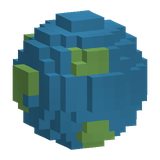
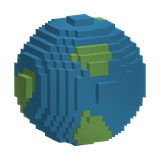
Reconcile expedition UI with native visual comparison

Changed region(s): [[0.0625, 0.0625, 0.9375, 0.9375], [0.75, 0.3438, 0.8125, 0.375]]

diff --git a/src/main/java/dev/astralreach/hytale/OrbitalMapPage.java b/src/main/java/dev/astralreach/hytale/OrbitalMapPage.java
@@ -32,11 +32,12 @@ final class OrbitalMapPage extends InteractiveCustomUIPage<OrbitalMapPage.Action
   "Vesper",new Body("Cloudlands","","Iridium","","Sulfur","Deep Space suit","Cryogenic Drive · future route"),
   "Umbra",new Body("Outer moon","","Aetherium","","Void quartz","Deep Space suit","Radiation Core · future route"));
  private static final String HUD="AstralReach.Map";
- private static final class Session{final Store<EntityStore> store;final PlayerRef player;final OrbitalScene scene;final byte originalSlot;boolean dragging,loggedMotion,dragMoved,threeD;String selected="Lune";double dragged;int pressTarget=-1,lastSlot;long watchAt;org.joml.Vector3i pressPlane;Session(Store<EntityStore>s,PlayerRef p){store=s;player=p;scene=new OrbitalScene(s,p);var bar=s.getComponent(p.getReference(),InventoryComponent.Hotbar.getComponentType());originalSlot=bar==null?s.getComponent(p.getReference(),Player.getComponentType()).getInventory().getActiveHotbarSlot():bar.getActiveSlot();lastSlot=originalSlot;}}
+ private static final class Session{final Store<EntityStore> store;final PlayerRef player;OrbitalScene scene;final byte originalSlot;boolean dragging,loggedMotion,dragMoved,threeD;String selected="Lune";double dragged;int pressTarget=-1,lastSlot;long watchAt;org.joml.Vector3i pressPlane;Session(Store<EntityStore>s,PlayerRef p){store=s;player=p;var bar=s.getComponent(p.getReference(),InventoryComponent.Hotbar.getComponentType());originalSlot=bar==null?s.getComponent(p.getReference(),Player.getComponentType()).getInventory().getActiveHotbarSlot():bar.getActiveSlot();lastSlot=originalSlot;}}
  private static final Map<UUID,Session> viewing=new java.util.concurrent.ConcurrentHashMap<>();
  private final Session session;private String selected;private boolean sceneHandoff;private long refreshAt;
  OrbitalMapPage(Session session,String selected){super(session.player,CustomPageLifetime.CanDismiss,Action.CODEC);this.session=session;this.selected=selected;}
  static boolean viewing(UUID id){return viewing.containsKey(id);}
+ static boolean threeD(UUID id){var session=viewing.get(id);return session!=null&&session.threeD;}
  static void open(Store<EntityStore>s,Ref<EntityStore>r,PlayerRef p){
   if(!SpaceFlight.inOrbit(s,r)){AstralReachPlugin.message(p,"Navigation becomes available after reaching space.");return;}
   var player=s.getComponent(r,Player.getComponentType());if(player==null)return;var session=viewing.get(p.getUuid());
@@ -45,19 +46,19 @@ final class OrbitalMapPage extends InteractiveCustomUIPage<OrbitalMapPage.Action
  private static void showDestinations(Session session,String body){
   var r=session.player.getReference();if(r==null||!r.isValid()||r.getStore()!=session.store||!SpaceFlight.inOrbit(session.store,r))return;
   session.threeD=false;session.selected=body;var player=session.store.getComponent(r,Player.getComponentType());player.getHudManager().removeCustomHud(session.player,HUD);
-  session.scene.select(body);session.scene.view();player.getPageManager().openCustomPage(r,session.store,new OrbitalMapPage(session,body));
+  if(session.scene!=null){session.scene.close();session.scene=null;}player.getPageManager().openCustomPage(r,session.store,new OrbitalMapPage(session,body));
  }
  private static void showScene(Session session){
-  var r=session.player.getReference();if(r==null||!r.isValid()||r.getStore()!=session.store)return;session.threeD=true;session.dragging=false;
+  var r=session.player.getReference();if(r==null||!r.isValid()||r.getStore()!=session.store)return;session.threeD=true;session.dragging=false;if(session.scene==null)session.scene=new OrbitalScene(session.store,session.player);session.scene.select(session.selected);
   session.store.getComponent(r,Player.getComponentType()).getHudManager().addCustomHud(session.player,new CustomUIHud(session.player,HUD,7){@Override protected void build(UICommandBuilder c){c.append("Pages/AstralReach/OrbitalMapHud.ui");}});session.scene.view();
  }
  static void route(Store<EntityStore>s,Ref<EntityStore>r,PlayerRef p,String name){String body=ORDER.stream().filter(v->v.equalsIgnoreCase(name)).findFirst().orElse(null);if(body==null){AstralReachPlugin.message(p,"Choose Orbis, Lune, Rustreach, Nacre, Vesper or Umbra.");return;}if(!SpaceFlight.inOrbit(s,r)){AstralReachPlugin.message(p,"Navigation becomes available after reaching space.");return;}var session=viewing.get(p.getUuid());if(session==null){session=new Session(s,p);viewing.put(p.getUuid(),session);}showDestinations(session,body);}
- private static void stop(Session session){if(!viewing.remove(session.player.getUuid(),session))return;var world=session.store.getExternalData().getWorld();if(world.isInThread())session.scene.close();else world.execute(session.scene::close);var r=session.player.getReference();if(r!=null&&r.isValid()){var current=r.getStore();Runnable remove=()->{if(!r.isValid()||r.getStore()!=current)return;var player=current.getComponent(r,Player.getComponentType());if(player!=null){player.getHudManager().removeCustomHud(session.player,HUD);var bar=current.getComponent(r,InventoryComponent.Hotbar.getComponentType());if(bar!=null&&session.originalSlot>=0&&session.originalSlot<bar.getInventory().getCapacity()&&bar.getActiveSlot()!=session.originalSlot){bar.setActiveSlot(session.originalSlot,r,current);session.player.getPacketHandler().writeNoCache(new com.hypixel.hytale.protocol.packets.inventory.SetActiveSlot(bar.getSectionId(),session.originalSlot));}}};if(current.getExternalData().getWorld().isInThread())remove.run();else current.getExternalData().getWorld().execute(remove);}}
+ private static void stop(Session session){if(!viewing.remove(session.player.getUuid(),session))return;var world=session.store.getExternalData().getWorld();var scene=session.scene;session.scene=null;if(scene!=null){if(world.isInThread())scene.close();else world.execute(scene::close);}var r=session.player.getReference();if(r!=null&&r.isValid()){var current=r.getStore();Runnable remove=()->{if(!r.isValid()||r.getStore()!=current)return;var player=current.getComponent(r,Player.getComponentType());if(player!=null){player.getHudManager().removeCustomHud(session.player,HUD);var bar=current.getComponent(r,InventoryComponent.Hotbar.getComponentType());if(bar!=null&&session.originalSlot>=0&&session.originalSlot<bar.getInventory().getCapacity()&&bar.getActiveSlot()!=session.originalSlot){bar.setActiveSlot(session.originalSlot,r,current);session.player.getPacketHandler().writeNoCache(new com.hypixel.hytale.protocol.packets.inventory.SetActiveSlot(bar.getSectionId(),session.originalSlot));}}};if(current.getExternalData().getWorld().isInThread())remove.run();else current.getExternalData().getWorld().execute(remove);}}
  static void close(PlayerRef p){var session=viewing.get(p.getUuid());if(session!=null)stop(session);}
  static void cleanup(Store<EntityStore>s){for(var session:new ArrayList<>(viewing.values()))if(session.store==s){var r=session.player.getReference();if(r==null||!r.isValid()||r.getStore()!=s||!SpaceFlight.inOrbit(s,r)){stop(session);continue;}long now=System.nanoTime();if(now-session.watchAt<75_000_000L||active(r)==null)continue;session.watchAt=now;var player=s.getComponent(r,Player.getComponentType());if(player!=null){var inv=player.getInventory();observeSlot(session,inv.getActiveHotbarSlot(),inv.getHotbar().getCapacity());}}}
  private static void observeSlot(Session session,int next,int count){int previous=session.lastSlot;session.lastSlot=next;if(next==previous||next<0||next>=count||previous<0||previous>=count)return;int delta=Math.floorMod(next-previous+count/2,count)-count/2;if(Math.abs(delta)==1){session.scene.zoom=Math.clamp(session.scene.zoom+delta*7,32,130);session.scene.view();System.out.println("AR_MAP_SCROLL step="+delta);}}
 
- private static Session active(Ref<EntityStore>r){if(r==null||!r.isValid())return null;var s=r.getStore();var p=s.getComponent(r,PlayerRef.getComponentType());if(p==null)return null;var session=viewing.get(p.getUuid());if(session==null||session.store!=s||!SpaceFlight.inOrbit(s,r))return null;var player=s.getComponent(r,Player.getComponentType());return session.threeD&&player!=null&&player.getPageManager().getCustomPage()==null?session:null;}
+ private static Session active(Ref<EntityStore>r){if(r==null||!r.isValid())return null;var s=r.getStore();var p=s.getComponent(r,PlayerRef.getComponentType());if(p==null)return null;var session=viewing.get(p.getUuid());if(session==null||session.store!=s||!SpaceFlight.inOrbit(s,r))return null;var player=s.getComponent(r,Player.getComponentType());return session.threeD&&session.scene!=null&&player!=null&&player.getPageManager().getCustomPage()==null?session:null;}
  static void button(PlayerMouseButtonEvent e){var r=e.getPlayerRef();var session=active(r);if(session==null)return;e.setCancelled(true);var button=e.getMouseButton();if(button==null)return;System.out.println("AR_MAP_BUTTON "+button.mouseButtonType+" "+button.state+" screen="+e.getScreenPoint()+" plane="+e.getTargetBlock());boolean pressed=button.state==MouseButtonState.Pressed;
   if(pressed&&button.mouseButtonType==MouseButtonType.Right){showDestinations(session,session.selected);return;}if(pressed&&button.mouseButtonType==MouseButtonType.Middle){session.scene.reset();return;}if(button.mouseButtonType!=MouseButtonType.Left)return;
   int target=-1;var hit=e.getTargetEntityRef();if(hit!=null&&hit.isValid()){var id=session.store.getComponent(hit,NetworkId.getComponentType());if(id!=null)target=id.getId();}
@@ -87,7 +88,7 @@ final class OrbitalMapPage extends InteractiveCustomUIPage<OrbitalMapPage.Action
   c.set("#SuitIcon.ItemId",required==1?"AR_Survey_Chest":required==2?"AR_Thermal_Chest":"AR_DeepSpace_Chest");c.set("#Suit.Text",(tier>=required?"":"Requires ")+body.equipment);c.set("#SuitCheck.Visible",tier>=required);c.set("#OxygenCheck.Visible",oxygen>0);c.set("#Oxygen.Text",oxygen>0?"Oxygen · "+NativeUi.duration(oxygen):"Carry filled oxygen canisters");
   int reserve=f!=null&&f.trip!=null?f.trip.returnUnits():0;c.set("#Reserve.Text",NativeUi.number(reserve)+" units protected");c.set("#Flight.Text","In orbit · "+(f==null?"Vehicle":f.plan.title));
   boolean available=dev.astralreach.core.DestinationAccess.canTravel(selected,f!=null&&f.trip!=null&&reserve>0,tier);c.set("#Travel.Text",selected.equals("Orbis")?"Return to Orbis":selected.equals("Lune")?"Land on Lune":"Route unavailable");c.set("#Travel.Disabled",!available);
-  for(String name:ORDER){boolean active=name.equals(selected);c.set("#Chosen"+name+".Visible",active);c.set("#Ring"+name+".Visible",active);c.set("#Preview"+name+".Visible",active);}
+  for(String name:ORDER){boolean active=name.equals(selected);c.set("#Chosen"+name+".Visible",active);c.set("#Ring"+name+".Visible",active);c.set("#Preview"+name+".Visible",active);c.set("#Mini"+name+".Visible",active);}
  }
  @Override public void build(Ref<EntityStore>r,UICommandBuilder c,UIEventBuilder e,Store<EntityStore>s){
   c.append("Pages/AstralReach/OrbitalMap.ui");labels(r,c,s);NativeUi.cue(s,playerRef);
@@ -97,7 +98,7 @@ final class OrbitalMapPage extends InteractiveCustomUIPage<OrbitalMapPage.Action
  @Override public void handleDataEvent(Ref<EntityStore>r,Store<EntityStore>s,Action action){s.getExternalData().getWorld().execute(()->{
   if(!r.isValid()||r.getStore()!=s||viewing.get(playerRef.getUuid())!=session||!SpaceFlight.inOrbit(s,r))return;var player=s.getComponent(r,Player.getComponentType());if(player==null||player.getPageManager().getCustomPage()!=this)return;
   String a=action.action;if(a.equals("Close")){stop(session);close();return;}
-  if(a.startsWith("Select:")){String body=a.substring(7);if(!BODIES.containsKey(body)||body.equals(selected))return;selected=body;session.selected=body;session.scene.select(body);NativeUi.cue(s,playerRef);var c=new UICommandBuilder();labels(r,c,s);sendUpdate(c,false);return;}
+  if(a.startsWith("Select:")){String body=a.substring(7);if(!BODIES.containsKey(body)||body.equals(selected))return;selected=body;session.selected=body;if(session.scene!=null)session.scene.select(body);NativeUi.cue(s,playerRef);var c=new UICommandBuilder();labels(r,c,s);sendUpdate(c,false);return;}
   if(a.equals("Explore")){NativeUi.cue(s,playerRef);sceneHandoff=true;close();showScene(session);return;}
   if(!a.equals("Travel")||!selected.equals("Lune")&&!selected.equals("Orbis"))return;
   try{if(selected.equals("Lune"))ExpeditionSuit.require(s,r,1);}catch(IllegalArgumentException ex){AstralReachPlugin.message(playerRef,ex.getMessage());return;}

diff --git a/tools/native_ui_art.py b/tools/native_ui_art.py
@@ -1,34 +1,67 @@
+#!/usr/bin/env python3
+"""Original source-authored native UI decoration; real controls remain native widgets."""
 from pathlib import Path
 import math,random
 from PIL import Image,ImageDraw
-R=Path(__file__).resolve().parents[1]/'src/main/resources/Common/UI/Custom/Pages/AstralReach/Art';R.mkdir(exist_ok=True)
-# Original source-rendered low-poly globes; no generated mock-up is pasted over native controls.
+R=Path(__file__).resolve().parents[1]/'src/main/resources/Common/UI/Custom/Pages/AstralReach/Art';R.mkdir(parents=True,exist_ok=True)
 PALETTES={'Sol':((238,182,65),(255,231,132)),'Orbis':((49,119,158),(107,154,79)),'Lune':((141,146,154),(101,107,119)),'Rustreach':((156,84,48),(100,54,39)),'Nacre':((125,192,209),(190,228,231)),'Vesper':((192,157,69),(143,111,48)),'Umbra':((112,87,149),(155,133,183))}
+# Finer broad voxel relief; the same bounding circle and original family palette.
 for name,(a,b) in PALETTES.items():
- size=160;scale=3;im=Image.new('RGBA',(size*scale,size*scale));d=ImageDraw.Draw(im);faces=[];radius=5.2
- voxels={(x,y,z) for x in range(-5,6) for y in range(-5,6) for z in range(-5,6) if x*x+y*y+z*z<radius*radius}
+ size=160;scale=3;im=Image.new('RGBA',(size*scale,size*scale));d=ImageDraw.Draw(im);faces=[];radius=9.2;unit=6.8
+ voxels={(x,y,z) for x in range(-9,10) for y in range(-9,10) for z in range(-9,10) if x*x+y*y+z*z<radius*radius}
+ if name=='Lune':
+  craters=[(-2,2,8.4,2.3),(3,-2,8.1,2.5),(-6,3,5.6,1.9),(0,8,3.5,1.7)]
+  voxels={p for p in voxels if not any(sum((p[i]-c[i])**2 for i in range(3))<c[3]**2 for c in craters)}
  yaw=.45;pitch=.23
  def project(p):
   x,y,z=p;xx=x*math.cos(yaw)+z*math.sin(yaw);zz=-x*math.sin(yaw)+z*math.cos(yaw);yy=y*math.cos(pitch)-zz*math.sin(pitch);depth=y*math.sin(pitch)+zz*math.cos(pitch)
-  return ((size/2+xx*12)*scale,(size/2-yy*12)*scale,depth)
+  return ((size/2+xx*unit)*scale,(size/2-yy*unit)*scale,depth)
  data=[((-1,0,0),[(-.5,-.5,-.5),(-.5,.5,-.5),(-.5,.5,.5),(-.5,-.5,.5)],.68),((0,1,0),[(-.5,.5,-.5),(.5,.5,-.5),(.5,.5,.5),(-.5,.5,.5)],1.09),((0,0,1),[(-.5,-.5,.5),(.5,-.5,.5),(.5,.5,.5),(-.5,.5,.5)],.91)]
  for x,y,z in voxels:
   for (dx,dy,dz),corners,shade in data:
    if (x+dx,y+dy,z+dz) in voxels:continue
-   p=[project((x+cx,y+cy,z+cz)) for cx,cy,cz in corners];f=math.sin(x*.85+z*.53)+math.cos(y*.9-z*.71)+.4*math.sin(x+y)
-   color=b if f>.9 else a
-   # Broad material planes and slight painted tonal variation, not a noisy checker texture.
-   factor=shade*(.94+.055*math.sin(x*.5+y*.3+z*.6));color=tuple(min(255,max(0,int(c*factor))) for c in color)+(255,)
+   p=[project((x+cx,y+cy,z+cz)) for cx,cy,cz in corners];sx,sy,sz=x/1.77,y/1.77,z/1.77;f=math.sin(sx*.85+sz*.53)+math.cos(sy*.9-sz*.71)+.4*math.sin(sx+sy)
+   color=b if f>.9 else a;factor=shade*(.94+.055*math.sin(sx*.5+sy*.3+sz*.6));color=tuple(min(255,max(0,int(c*factor))) for c in color)+(255,)
    faces.append((sum(q[2] for q in p)/4,[(q[0],q[1]) for q in p],color))
  for _,p,c in sorted(faces,key=lambda q:q[0]):d.polygon(p,fill=c)
  im.resize((size,size),Image.Resampling.LANCZOS).save(R/f'Planet_{name}.png')
-im=Image.new('RGBA',(64,64));d=ImageDraw.Draw(im);d.rectangle((1,1,62,62),outline='#78d0c7',width=2);d.line((5,6,58,6),fill='#335f70',width=2);im.save(R/'SelectedFrame.png')
-im=Image.new('RGBA',(128,128));d=ImageDraw.Draw(im);d.ellipse((3,3,124,124),outline='#78d0c7',width=3);im.save(R/'SelectionRing.png')
-im=Image.new('RGB',(640,544),'#07131e');d=ImageDraw.Draw(im);rng=random.Random(84211)
-for _ in range(70):
- x,y=rng.randrange(640),rng.randrange(544);d.point((x,y),fill=rng.choice(['#233647','#314757','#1c3142']))
-for rx,ry in [(180,135),(280,220),(390,305),(500,390)]:d.ellipse((60-rx,300-ry,60+rx,300+ry),outline='#263d4e',width=1)
-sun=Image.open(R/'Planet_Sol.png').resize((190,190));im.paste(sun,(-95,200),sun);im.save(R/'SystemChart.png')
-print('Rendered original source-authored UI globe/selection/chart art.')
 
-im=Image.new('RGBA',(48,48));d=ImageDraw.Draw(im);d.line((7,24,19,36,41,10),fill='#78d0c7',width=6);im.save(R/'Ready.png')
+def panel(name,top,bottom,edge='#476780',cut=4):
+ w,h=96,64;im=Image.new('RGBA',(w,h));d=ImageDraw.Draw(im);t=tuple(bytes.fromhex(top[1:]));b=tuple(bytes.fromhex(bottom[1:]));poly=[(cut,0),(w-cut-1,0),(w-1,cut),(w-1,h-cut-1),(w-cut-1,h-1),(cut,h-1),(0,h-cut-1),(0,cut)]
+ for y in range(h):
+  c=tuple(round(t[i]+(b[i]-t[i])*y/(h-1)) for i in range(3));d.line((0,y,w,y),fill=c)
+ mask=Image.new('L',(w,h));ImageDraw.Draw(mask).polygon(poly,fill=255);im.putalpha(mask);d=ImageDraw.Draw(im);d.line(poly+[poly[0]],fill='#080f18',width=2);d.line([(cut+1,2),(w-cut-2,2),(w-3,cut+1)],fill=edge,width=2);d.line([(2,cut+1),(2,h-cut-2)],fill=edge,width=1);d.line([(cut+2,h-4),(w-cut-3,h-4),(w-4,h-cut-3)],fill='#07101a',width=2);im.save(R/name)
+for args in [('WindowPatch.png','#183049','#0b1723','#6686a0'),('PanelPatch.png','#101f2e','#0b1721','#385d79'),('TitleHeader.png','#244d76','#122a46','#6687a9'),('SectionHeader.png','#1c405c','#10273c','#4d7694'),('Row.png','#122432','#0a1722','#355773'),('RowHovered.png','#1b3d4b','#102936','#7bc4cb'),('RowPressed.png','#10232d','#0b1b24','#5fadb8'),('ControlPrimary.png','#0868da','#0340a4','#56a7ff'),('ControlPrimary_Hovered.png','#1685f2','#0754b9','#93cdff'),('ControlPrimary_Pressed.png','#104f99','#05336d','#3881c2'),('ControlSecondary.png','#354a64','#202e43','#6c88a5'),('ControlSecondary_Hovered.png','#456079','#2d435c','#9db7ce'),('ControlSecondary_Pressed.png','#25364b','#172738','#4b7895'),('ControlDisabled.png','#2b3743','#202b36','#475869')]:panel(*args)
+im=Image.new('RGBA',(64,64),(32,107,122,30));d=ImageDraw.Draw(im);d.rectangle((1,1,62,62),outline='#62e5dd',width=3);d.line((5,6,58,6),fill='#3e8e9a',width=2);im.save(R/'SelectedFrame.png')
+im=Image.new('RGBA',(128,128));d=ImageDraw.Draw(im);d.ellipse((3,3,124,124),outline='#78e4da',width=3);im.save(R/'SelectionRing.png')
+im=Image.new('RGBA',(48,48));d=ImageDraw.Draw(im);d.rectangle((2,2,45,45),outline='#5de2db',width=3);d.line((10,24,20,34,39,12),fill='#69e8de',width=5);im.save(R/'Ready.png')
+im=Image.new('RGBA',(48,48));d=ImageDraw.Draw(im);d.arc((12,3,36,31),180,360,fill='#8ca5ba',width=5);d.rectangle((8,20,40,43),fill='#7b92aa');d.ellipse((21,27,27,33),fill='#15293c');d.rectangle((23,31,25,37),fill='#15293c');im.save(R/'Lock.png')
+for name,kind in [('Compass.png','compass'),('RocketGlyph.png','rocket'),('OrbitGlyph.png','orbit'),('CloseGlyph.png','close'),('CanisterGlyph.png','canister')]:
+ im=Image.new('RGBA',(64,64));d=ImageDraw.Draw(im);color='#bdd8ef'
+ if kind=='compass':
+  d.ellipse((22,22,42,42),outline=color,width=3)
+  for poly in [[(32,1),(23,25),(32,20),(41,25)],[(32,63),(23,39),(32,44),(41,39)],[(1,32),(25,23),(20,32),(25,41)],[(63,32),(39,23),(44,32),(39,41)]]:d.polygon(poly,fill=color)
+ elif kind=='rocket':
+  d.polygon([(32,4),(22,20),(22,46),(42,46),(42,20)],fill=color);d.ellipse((27,20,37,30),fill='#17324b');d.polygon([(22,34),(14,46),(14,54),(24,48)],fill=color);d.polygon([(42,34),(50,46),(50,54),(40,48)],fill=color);d.polygon([(26,51),(32,63),(38,51)],fill=color)
+ elif kind=='canister':
+  d.rectangle((22,7,42,12),fill=color);d.rectangle((18,15,46,55),outline=color,width=4);d.rectangle((23,25,41,40),fill='#63dfda')
+ elif kind=='orbit':d.ellipse((14,14,50,50),outline=color,width=3);d.ellipse((3,23,61,41),outline=color,width=3)
+ else:d.line((13,13,51,51),fill=color,width=8);d.line((51,13,13,51),fill=color,width=8)
+ im.save(R/name)
+# Native ProgressBar handles the actual server Value; these are decorative textures only.
+for name,top,bottom in [('MeterFill.png',(96,232,225),(27,158,195)),('MeterTrack.png',(20,35,47),(9,21,32))]:
+ im=Image.new('RGBA',(256,16));d=ImageDraw.Draw(im)
+ for y in range(16):d.line((0,y,255,y),fill=tuple(round(top[i]+(bottom[i]-top[i])*y/15) for i in range(3)))
+ d.rectangle((0,0,255,15),outline='#4b7890',width=1);im.save(R/name)
+im=Image.new('RGB',(640,544),'#07131e');d=ImageDraw.Draw(im);rng=random.Random(84211)
+for _ in range(100):
+ x,y=rng.randrange(640),rng.randrange(544);d.point((x,y),fill=rng.choice(['#233647','#405569','#1c3142']))
+for rx,ry in [(180,135),(280,220),(390,305),(500,390)]:d.ellipse((60-rx,300-ry,60+rx,300+ry),outline='#314c61',width=1)
+# A sparse original belt of painted fragments follows the system chart's inner orbital arc.
+for i in range(30):
+ t=-1.3+i*.087;x=60+217*math.cos(t);y=300+168*math.sin(t);size=rng.choice([2,3,4]);d.polygon([(x-size,y),(x,y-size),(x+size,y),(x,y+size)],fill=rng.choice(['#626267','#797a7c','#4c505a']))
+sun=Image.open(R/'Planet_Sol.png').resize((280,280));im.paste(sun,(-140,155),sun);im.save(R/'SystemChart.png')
+print('Rendered original voxel relief, native nine-slice frames, glyphs and teal meter art; loaded comparison pending.')
+im=Image.new('RGB',(640,400),'#091622');d=ImageDraw.Draw(im);rng=random.Random(9440)
+for _ in range(90):d.point((rng.randrange(640),rng.randrange(400)),fill=rng.choice(['#264258','#344c62','#1b3447']))
+im.save(R/'StarField.png')

diff --git a/tools/native_ui_layouts.py b/tools/native_ui_layouts.py
@@ -207,3 +207,50 @@ for p in r.glob('*.ui'):
  if p.name not in ['Astral.ui','YardSlot.ui','YardRow.ui']:
   s=p.read_text().replace('$C.@TextButton','$A.@Primary').replace('$C.@SecondaryTextButton','$A.@Secondary')
   p.write_text(s)
+
+# Reconcile the observed UI1r2 render with the exact selected working concepts.
+# Every replacement starts from the generator above, so reruns are idempotent.
+p=r/'Astral.ui';s=p.read_text()
+s=s.replace('@Text = (FontSize: 20','@Text = (FontSize: 24').replace('@Muted = (FontSize: 18','@Muted = (FontSize: 22').replace('@Heading = (FontSize: 21','@Heading = (FontName: "Secondary", FontSize: 24')
+s=s.replace('(TexturePath: "../../Common/ContainerFullPatch.png", Border: 20)','(TexturePath: "Art/WindowPatch.png", Border: 12)').replace('(TexturePath: "../../Common/ContainerPatch.png", Border: 23)','(TexturePath: "Art/PanelPatch.png", Border: 8)')
+s=s.replace('(TexturePath: "../../Common/ContainerHeaderNoRunes.png", HorizontalBorder: 35, VerticalBorder: 0)','(TexturePath: "Art/SectionHeader.png", Border: 8)')
+s=s.replace('@Header = Group { Background: (TexturePath: "Art/SectionHeader.png", Border: 8)','@Header = Group { Background: (TexturePath: "Art/TitleHeader.png", Border: 8)')
+for old,new in [('Tertiary','Row'),('Tertiary_Hovered','RowHovered'),('Tertiary_Pressed','RowPressed'),('Secondary','ControlSecondary'),('Secondary_Hovered','ControlSecondary_Hovered'),('Secondary_Pressed','ControlSecondary_Pressed')]:s=s.replace(f'(TexturePath: "../../Common/Buttons/{old}.png", Border: 12)',f'(TexturePath: "Art/{new}.png", Border: 8)')
+s=s.replace('@ButtonLabel = (...$C.@DefaultButtonLabelStyle, FontSize: 20);','@ButtonLabel = (...$C.@DefaultButtonLabelStyle, FontName: "Secondary", FontSize: 24, RenderUppercase: false, MinShrinkTextToFitFontSize: 18);')
+for old,new in [('Default','ControlPrimary'),('Hovered','ControlPrimary_Hovered'),('Pressed','ControlPrimary_Pressed'),('Disabled','ControlDisabled')]:s=s.replace('$C.@DefaultButton'+old+'Background',f'(TexturePath: "Art/{new}.png", Border: 8)')
+s+='\n@Progress = ProgressBar { Background: "Art/MeterTrack.png"; BarTexturePath: "Art/MeterFill.png"; };\n';p.write_text(s)
+for name in ['OrbitalMap.ui','LaunchYard.ui','Rocket.ui','Oxygen.ui','OxygenHud.ui','Ascent.ui','OrbitalMapHud.ui']:
+ p=r/name;s=p.read_text().replace('$C.@ProgressBar','$A.@Progress').replace('(TexturePath: "../../Common/Buttons/Tertiary.png", Border: 12)','(TexturePath: "Art/Row.png", Border: 8)')
+ if name=='OrbitalMap.ui':
+  s=s.replace('$C.@SecondaryTextButton','$A.@Secondary').replace('$C.@TextButton','$A.@Primary')
+  s=s.replace('FontSize: 36','FontName: "Secondary", FontSize: 38')
+  s=s.replace('Label { Text: "DESTINATIONS";','Group { Anchor: (Left: 8, Width: 42, Height: 42); Background: "Art/Compass.png"; HitTestVisible: false; } Label { Anchor: (Left: 88, Right: 250); Text: "DESTINATIONS";')
+  s=s.replace('Height: 260','Height: 258').replace('Height: 118','Height: 128').replace('Height: 146','Height: 156')
+  s=s.replace('Group { Anchor: (Height: 12); }','Group { Anchor: (Height: 6); }')
+  s=s.replace('Width: 170, Height: 170','Width: 190, Height: 190')
+  mini=''.join(f'Group #Mini{n} {{ Anchor: (Left: 0, Top: 8, Width: 28, Height: 28); Background: "Art/Planet_{n}.png"; HitTestVisible: false; }} ' for n in planets)
+  s=s.replace('Label #Selected { Text: "LUNE";',mini+'Label #Selected { Anchor: (Left: 40, Right: 0); Text: "LUNE";')
+  s=s.replace('Group #PreviewOrbis','Group { Anchor: (Left: 8, Right: 8, Top: 48, Bottom: 8); Background: "Art/StarField.png"; HitTestVisible: false; }\nGroup #PreviewOrbis')
+  s=s.replace('Top: 54, Height: 52','Top: 54, Height: 64').replace('Left: 4, Top: 2, Width: 48, Height: 48','Left: 4, Top: 4, Width: 56, Height: 56').replace('Left: 58, Right: 4, Top: 2, Height: 48','Left: 66, Right: 4, Top: 2, Height: 60').replace('FontSize: 18, TextColor: #d4e0e7','FontSize: 22, TextColor: #d4e0e7')
+  s=s.replace('Top: 50, Height: 42','Top: 50, Height: 48').replace('Top: 96, Height: 42','Top: 104, Height: 48').replace('Left: 4, Width: 42, Height: 42','Left: 4, Width: 46, Height: 46').replace('Left: 58, Right: 40, Top: 2, Height: 38','Left: 62, Right: 44, Top: 2, Height: 44').replace('FontSize: 19, TextColor: #cbd9e1','FontSize: 22, TextColor: #cbd9e1')
+  s=s.replace('Right: 10, Top: 9, Width: 24, Height: 24','Right: 9, Top: 9, Width: 30, Height: 30').replace('#e4c37b','#ffd46e')
+  for n in ['Rustreach','Nacre','Vesper','Umbra']:
+   start=s.index('Button #Route'+n);end=s.index('Group { Anchor: (Height: 9); }',start);row=s[start:end];row=row.replace('Right: 8, Height: 28','Right: 42, Height: 28').replace('Right: 8, Height: 26','Right: 42, Height: 26');row=row.rstrip();row=row[:-1]+f' Group {{ Anchor: (Right: 14, Top: 30, Width: 24, Height: 30); Background: "Art/Lock.png"; HitTestVisible: false; }} }} ';s=s[:start]+row+s[end:]
+ elif name=='Oxygen.ui':
+  s=s.replace('Width: 900, Height: 760','Width: 900, Height: 720').replace('Anchor: (Height: 220)','Anchor: (Height: 252)').replace('Left: 36, Right: 36, Top: 64, Bottom: 16','Width: 692, Top: 64, Bottom: 16').replace('Anchor: (Width: 180);','Anchor: (Width: 140);').replace('Anchor: (Height: 96);','Anchor: (Height: 124);').replace('Width: 84, Height: 84','Width: 104, Height: 104').replace('Height: 10, Left: 8','Height: 12, Left: 8').replace('FontSize: 21, TextColor: #b7dae3','FontSize: 24, TextColor: #b7dae3').replace('FontSize: 22, TextColor: #bddbe1','FontSize: 25, TextColor: #bddbe1')
+  # Three true gutters; no invisible fourth gutter shifts the last canister.
+  needle='Group { Anchor: (Width: 14); }';positions=[];pos=0
+  while (pos:=s.find(needle,pos))>=0:positions.append(pos);pos+=len(needle)
+  for i,pos in reversed(list(enumerate(positions))):s=s[:pos]+('Group { Anchor: (Width: 44); }' if i<3 else '')+s[pos+len(needle):]
+ if name in ['LaunchYard.ui','Rocket.ui','Oxygen.ui']:
+  s=s.replace('FontSize: 29','FontName: "Secondary", FontSize: 34').replace('FontSize: 27','FontName: "Secondary", FontSize: 34')
+  for title in ['LAUNCH PLATFORM','OXYGEN DIFFUSER']:
+   s=s.replace('Label { Text: "'+title+'";','Group { Anchor: (Left: 0, Width: 34, Height: 42); Background: "Art/RocketGlyph.png"; HitTestVisible: false; } Label { Anchor: (Left: 50, Right: 0); Text: "'+title+'";')
+  if name=='Rocket.ui':s=s.replace('Label #RocketTitle {','Group { Anchor: (Left: 0, Width: 34, Height: 42); Background: "Art/RocketGlyph.png"; HitTestVisible: false; } Label #RocketTitle { Anchor: (Left: 50, Right: 0);').replace('Label { Text: "ROUND TRIP FUEL";','Label #FuelHeading { Text: "ROUND TRIP FUEL";')
+ if name=='OxygenHud.ui':s=s.replace('FontSize: 17,','FontName: "Secondary", FontSize: 20,').replace('FontSize: 23,','FontSize: 25,')
+ p.write_text(s)
+
+p=r/'Oxygen.ui';s=p.read_text().replace('Art/RocketGlyph.png','Art/CanisterGlyph.png');p.write_text(s)
+# Keep generated sources stable and clean after conditional gutters.
+for name in ['Astral.ui','OrbitalMap.ui','LaunchYard.ui','Rocket.ui','Oxygen.ui','OxygenHud.ui','Ascent.ui','OrbitalMapHud.ui']:
+ p=r/name;p.write_text('\n'.join(line.rstrip() for line in p.read_text().splitlines())+'\n')

diff --git a/src/main/java/dev/astralreach/hytale/SpaceFlight.java b/src/main/java/dev/astralreach/hytale/SpaceFlight.java
@@ -87,10 +87,10 @@ final class SpaceFlight {
    var r=p.getReference();if(r==null||!r.isValid()||!inOrbit(s,r))continue;var state=s.getComponent(r,AstralReachPlugin.flightType);var v=views.get(p.getUuid());
    if(v==null){v=new View();var player=s.getComponent(r,Player.getComponentType());if(player!=null){v.hud=Set.copyOf(player.getHudManager().getVisibleHudComponents());player.getHudManager().setVisibleHudComponents(p,Set.of(HudComponent.Chat));}views.put(p.getUuid(),v);}
    var uiPlayer=s.getComponent(r,Player.getComponentType());if(uiPlayer!=null&&uiPlayer.getPageManager().getCustomPage() instanceof OrbitalMapPage nav)nav.refresh(r,s);
-   if(OrbitalMapPage.viewing(p.getUuid())){if(v.vehicle!=null&&v.vehicle.isValid())s.removeEntity(v.vehicle,RemoveReason.REMOVE);v.vehicle=null;}
+   if(OrbitalMapPage.threeD(p.getUuid())){if(v.vehicle!=null&&v.vehicle.isValid())s.removeEntity(v.vehicle,RemoveReason.REMOVE);v.vehicle=null;}
    else if(v.vehicle==null||!v.vehicle.isValid()){String model=state.plan==LaunchPlan.KESTREL?"AR_KestrelShipIdle":"AR_OdysseyShipIdle";v.vehicle=RocketVisuals.spawn(s,model,new Vector3d(slot(p)+.5,202,.5),new Rotation3f());}
    state.boarded=true;CrewBoarding.hold(s,r,p,new Vector3d(slot(p)+.5,202+FlightTimeline.crewHeight(state.plan),.5));
-   long now=System.nanoTime();if(!OrbitalMapPage.viewing(p.getUuid())&&now-v.cameraAt>=100_000_000L){v.cameraAt=now;double h=FlightTimeline.upperHeight(state.plan);var target=new Vector3d(slot(p)+.5,202+h*.5,.5);camera(p,new Vector3d(target.x-55,target.y-110,target.z-120),target);}
+   long now=System.nanoTime();if(!OrbitalMapPage.threeD(p.getUuid())&&now-v.cameraAt>=100_000_000L){v.cameraAt=now;double h=FlightTimeline.upperHeight(state.plan);var target=new Vector3d(slot(p)+.5,202+h*.5,.5);camera(p,new Vector3d(target.x-55,target.y-110,target.z-120),target);}
    if(!v.mapShown&&now-v.arrival>=8_000_000_000L){v.mapShown=true;OrbitalMapPage.open(s,r,p);}
   }
   for(var id:new ArrayList<>(views.keySet())){var v=views.get(id);if(v==null||v.vehicle==null)continue;boolean present=world.getPlayerRefs().stream().anyMatch(p->p.getUuid().equals(id)&&p.getReference()!=null&&inOrbit(s,p.getReference()));if(!present){if(v.vehicle.isValid())s.removeEntity(v.vehicle,RemoveReason.REMOVE);views.remove(id);}}

diff --git a/src/main/java/dev/astralreach/hytale/RocketPage.java b/src/main/java/dev/astralreach/hytale/RocketPage.java
@@ -32,7 +32,7 @@ final class RocketPage extends InteractiveCustomUIPage<RocketPage.Action> {
   int units=moon?(paid?f.trip.returnUnits():0):r==null?0:r.tank.units();boolean sealed=ExpeditionSuit.tier(s,ref)>0;double oxygen=player==null?0:OxygenCanisters.total(player.getInventory().getCombinedStorageHotbarBackpack());boolean oxygenReady=oxygen>=240;
   c.set("#RocketTitle.Text",moon?"RETURN TO ORBIS":"FLIGHT CONTROL · "+(r==null?"Rocket":r.plan.title));
   c.set("#Status.Text",moon?(returnable?"Your homeward fuel is already paid":"No paid journey"):r==null?"Rocket unavailable":busy?"Mission in progress · tank locked":rebuild?"Returned vehicle · service required":fill?"Prepare the round trip":"Round-trip fuel ready");
-  c.set("#Fuel.Visible",!rebuild);c.set("#FuelProgress.Value",moon?(returnable?1:0):Math.clamp(units/9000d,0,1));c.set("#FuelCount.Text",moon?NativeUi.number(units)+" units protected":NativeUi.number(units)+" / 9,000 units");
+  c.set("#FuelHeading.Text",moon?"PAID RETURN FUEL":"ROUND TRIP FUEL");c.set("#Fuel.Visible",!rebuild);c.set("#FuelProgress.Value",moon?(returnable?1:0):Math.clamp(units/9000d,0,1));c.set("#FuelCount.Text",moon?NativeUi.number(units)+" units protected":NativeUi.number(units)+" / 9,000 units");
   c.set("#Route.Text",moon?"Reserved at departure for this homeward trip.":"6,000 units outbound\n3,000 units protected for return");
   c.set("#Drain.Visible",!moon&&r!=null&&!rebuild&&!busy&&units>=1000);c.set("#Fill.Visible",fill);c.set("#Rebuild.Visible",rebuild);c.set("#Launch.Visible",moon||!fill&&!rebuild);
   c.set("#Launch.Text",moon?"Board and return to Orbis":"Launch to orbit");c.set("#Launch.Disabled",moon?!returnable:!(r!=null&&!busy&&!rebuild&&units>=9000&&sealed&&oxygenReady));
